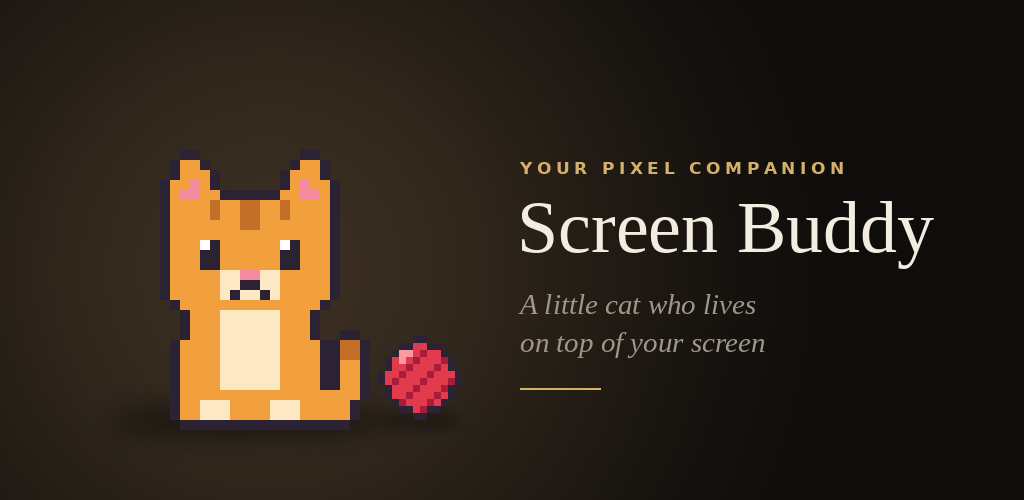
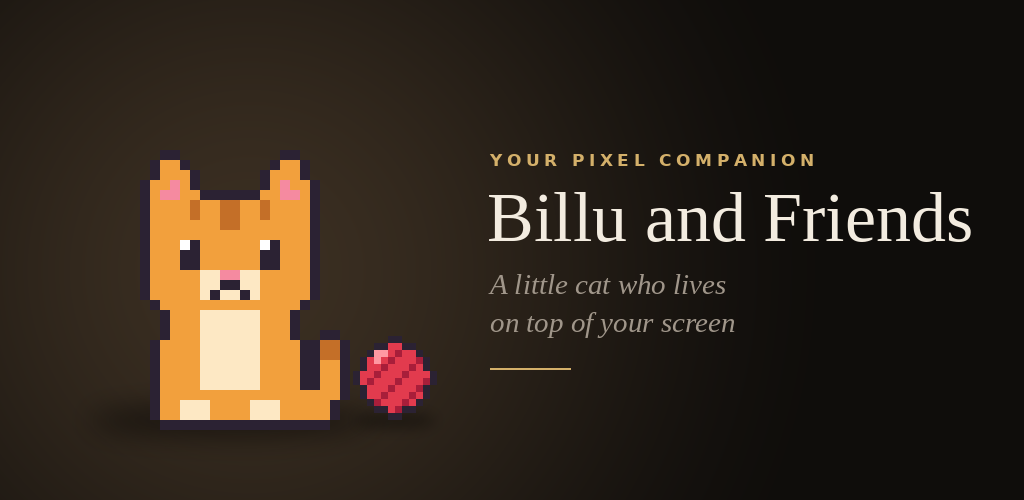
Rename the app to Billu and Friends and the cat to Billu
- App name, heading, permission text and footer now say Billu and Friends.
- The cat comes named Billu; names people chose themselves are kept.
- The privacy policy, landing page, launch guide and README use the new
  names, and the policy moves to
  https://prathamgiri.com/billu-and-friends/privacy-policy.html, which the
  app links to. The guide's hosting steps are now for Vercel.
- New feature graphic with the new name; CI artifacts are renamed to
  billu-and-friends-apk and billu-and-friends-play-bundle.

Claude-Session: https://claude.ai/code/session_01JSRN3mJLy9xvQfvaaQ3C8j

diff --git a/app/src/main/kotlin/dev/screenbuddy/MainActivity.kt b/app/src/main/kotlin/dev/screenbuddy/MainActivity.kt
@@ -52,7 +52,7 @@ class MainActivity : Activity() {
         )
 
         // --- heading ---
-        add(Lux.eyebrow(this, "Screen Buddy"), 8f)
+        add(Lux.eyebrow(this, getString(R.string.app_name)), 8f)
         add(heading(), 6f)
         add(Lux.text(this, "Your ginger tabby, at home on your screen", 15f, Lux.MUTED, Lux.LIGHT), 2f)
 
@@ -67,7 +67,7 @@ class MainActivity : Activity() {
             }
             addView(inviteButton, LinearLayout.LayoutParams(match, wrap))
             addView(Lux.text(this@MainActivity,
-                "Allow Screen Buddy to display over other apps, then come back here.",
+                "Allow Billu and Friends to display over other apps, then come back here.",
                 13f, Lux.MUTED, Lux.LIGHT,
             ).apply { gravity = Gravity.CENTER }, LinearLayout.LayoutParams(match, wrap).apply { topMargin = dp(10f) })
         }
@@ -100,7 +100,7 @@ class MainActivity : Activity() {
         add(gestures(), 14f)
 
         add(Lux.text(this,
-            "Screen Buddy has no internet access and never reads what is on your screen.",
+            "Billu and Friends has no internet access and never reads what is on your screen.",
             12f, Lux.FAINT, Lux.LIGHT,
         ).apply { gravity = Gravity.CENTER }, 36f)
         add(Lux.text(this, "Privacy policy", 13f, Lux.GOLD, Lux.MEDIUM).apply {
@@ -425,6 +425,6 @@ class MainActivity : Activity() {
     }
 
     private companion object {
-        const val PRIVACY_POLICY_URL = "https://prathamgiri.com/screen-buddy/privacy-policy.html"
+        const val PRIVACY_POLICY_URL = "https://prathamgiri.com/billu-and-friends/privacy-policy.html"
     }
 }

diff --git a/docs/privacy-policy.html b/docs/privacy-policy.html
@@ -3,8 +3,8 @@
 <head>
 <meta charset="utf-8">
 <meta name="viewport" content="width=device-width, initial-scale=1">
-<title>Screen Buddy Privacy Policy</title>
-<meta name="description" content="How Screen Buddy handles your information: it collects none.">
+<title>Billu and Friends Privacy Policy</title>
+<meta name="description" content="How Billu and Friends handles your information: it collects none.">
 <style>
   :root {
     --bg: #faf7f2; --text: #1d1915; --muted: #6b6259; --accent: #8a6a2c; --rule: #e6ded2;
@@ -32,18 +32,18 @@
 </head>
 <body>
 <main>
-  <div class="eyebrow">Screen Buddy</div>
+  <div class="eyebrow">Billu and Friends</div>
   <h1>Privacy Policy</h1>
   <p class="meta">Effective 15 November 2026</p>
 
   <div class="summary">
-    <p><strong>In short:</strong> Screen Buddy collects no personal information. It has no
+    <p><strong>In short:</strong> Billu and Friends collects no personal information. It has no
     internet access, no accounts, no ads and no analytics. Nothing you do in the app or on your
     phone is sent anywhere.</p>
   </div>
 
   <h2>About this policy</h2>
-  <p>This policy explains how the Screen Buddy app for Android ("the app") handles information.
+  <p>This policy explains how the Billu and Friends app for Android ("the app") handles information.
   The app is published on Google Play by the developer named on its Google Play listing
   ("we").</p>
 

diff --git a/docs/index.html b/docs/index.html
@@ -3,7 +3,7 @@
 <head>
 <meta charset="utf-8">
 <meta name="viewport" content="width=device-width, initial-scale=1">
-<title>Screen Buddy</title>
+<title>Billu and Friends</title>
 <meta name="description" content="A pixel companion that lives on top of your Android screen.">
 <style>
   :root { --bg: #faf7f2; --text: #1d1915; --muted: #6b6259; --accent: #8a6a2c; }
@@ -22,7 +22,7 @@
 <body>
 <main>
   <div class="eyebrow">Android app</div>
-  <h1>Screen Buddy</h1>
+  <h1>Billu and Friends</h1>
   <p>A pixel cat who lives on top of your screen. She strolls along the bottom edge, grooms,
   naps, hops onto your keyboard and chases a ball of wool now and then. Pet her, carry her and
   toss her around.</p>

diff --git a/app/src/main/kotlin/dev/screenbuddy/KeyboardWatcher.kt b/app/src/main/kotlin/dev/screenbuddy/KeyboardWatcher.kt
@@ -44,7 +44,7 @@ class KeyboardWatcher(context: Context, private val onChange: () -> Unit) {
         if (Build.VERSION.SDK_INT >= 30) {
             lp.fitInsetsTypes = lp.fitInsetsTypes or WindowInsets.Type.ime()
         }
-        lp.title = "Screen Buddy keyboard watcher"
+        lp.title = "Billu and Friends keyboard watcher"
         view.addOnLayoutChangeListener { _, _, _, _, _, _, _, _, _ -> measure() }
         view.setOnApplyWindowInsetsListener { _, insets ->
             view.post { measure() }

diff --git a/core/src/main/kotlin/dev/screenbuddy/core/Species.kt b/core/src/main/kotlin/dev/screenbuddy/core/Species.kt
@@ -6,7 +6,7 @@ package dev.screenbuddy.core
  * and, where it behaves differently, its own brain.
  */
 enum class Species(val id: String, val label: String, val defaultName: String, val available: Boolean) {
-    CAT("cat", "Cat", "Billu Rani", true),
+    CAT("cat", "Cat", "Billu", true),
     DOG("dog", "Dog", "Biscuit", false),
     BUNNY("bunny", "Bunny", "Clover", false);
 

diff --git a/app/src/main/kotlin/dev/screenbuddy/CatHost.kt b/app/src/main/kotlin/dev/screenbuddy/CatHost.kt
@@ -134,7 +134,7 @@ class CatHost(
         } else {
             WindowManager.LayoutParams.LAYOUT_IN_DISPLAY_CUTOUT_MODE_SHORT_EDGES
         }
-        lp.title = "Screen Buddy"
+        lp.title = "Billu and Friends"
         return lp
     }
 

diff --git a/docs/play-store/LAUNCH.md b/docs/play-store/LAUNCH.md
@@ -1,4 +1,4 @@
-# Launching Screen Buddy on Google Play
+# Launching Billu and Friends on Google Play
 
 Everything needed to get from here to a production release, in order. Answers for each Play
 Console form are written out so they can be pasted in. Policies change, so if a form asks
@@ -18,22 +18,16 @@ something not covered here, check the linked Google help page rather than guessi
 
 ## 1. Put the privacy policy online at prathamgiri.com
 
-The app links to **<https://prathamgiri.com/screen-buddy/privacy-policy.html>**, so the policy
+The app links to **<https://prathamgiri.com/billu-and-friends/privacy-policy.html>**, so the policy
 must be served at exactly that address. That link is built into the app; keep it working for as
 long as any version of the app is installed, and don't move it without shipping an update.
 
-**If prathamgiri.com is a GitHub Pages user site** (a repo named `prathamGiri.github.io` with a
-custom domain), this happens on its own: GitHub serves every project site under your domain.
-1. Merge this branch into `main`.
-2. In this repo: **Settings → Pages → Deploy from a branch → `main`, folder `/docs` → Save**.
-3. `docs/` then appears at `https://prathamgiri.com/screen-buddy/`.
+The portfolio is on Vercel: copy `docs/privacy-policy.html` to
+`public/billu-and-friends/privacy-policy.html` in the portfolio project and deploy. Optionally
+copy `docs/index.html` to `public/billu-and-friends/index.html` too, for a small app page. When
+the policy changes here, copy it across again.
 
-**If the portfolio is hosted anywhere else** (Vercel, Netlify, a web host…), copy
-`docs/privacy-policy.html` into your portfolio so it is served at `/screen-buddy/privacy-policy.html`
-(for example `public/screen-buddy/privacy-policy.html` in most site generators). Optionally copy
-`docs/index.html` to `/screen-buddy/index.html` too, for a small app page.
-
-Either way, open the link on your phone and check it loads without a login, before submitting.
+Open the link on your phone and check it loads without a login, before submitting.
 
 ## 2. Create the upload key and give it to CI
 
@@ -57,18 +51,18 @@ Then on GitHub, **Settings → Secrets and variables → Actions → New reposit
 | `UPLOAD_KEY_PASSWORD` | the key password you chose (often the same) |
 
 Keep `upload.jks` and the passwords somewhere safe (a password manager), never in the repo.
-From the next push, each Actions run has a second artifact, **`screen-buddy-play-bundle`**,
+From the next push, each Actions run has a second artifact, **`billu-and-friends-play-bundle`**,
 containing `app-release.aab`. That is the file you upload to Play.
 
 ## 3. Create the app in Play Console
 
-**Home → Create app**: name `Screen Buddy`, default language, **App**, **Free**, accept the
+**Home → Create app**: name `Billu and Friends`, default language, **App**, **Free**, accept the
 declarations.
 
 ## 4. App content (Policy → App content)
 
 **Privacy policy**
-`https://prathamgiri.com/screen-buddy/privacy-policy.html`
+`https://prathamgiri.com/billu-and-friends/privacy-policy.html`
 
 **App access**
 "All functionality is available without any special access." (No login. The app asks for
@@ -103,7 +97,7 @@ Not applicable: answer No or "My app doesn't provide any…" to each.
 **Foreground service permissions** (asked because the app targets Android 14+)
 Type: **Special use**. Paste:
 
-> Screen Buddy shows a small animated pet that stays on top of other apps until the user hides
+> Billu and Friends shows a small animated pet that stays on top of other apps until the user hides
 > it. The foreground service keeps the pet's overlay window and its animation running while the
 > user uses other apps; without it, Android stops the pet within minutes and it disappears. The
 > service starts only when the user opens the app and chooses to show the pet. It shows an
@@ -113,7 +107,7 @@ Type: **Special use**. Paste:
 Impact if the task were deferred or interrupted: "The pet disappears from the screen, which is
 the whole purpose of the app."
 
-Video: record 20–30 seconds on the phone (screen recorder): open Screen Buddy, switch
+Video: record 20–30 seconds on the phone (screen recorder): open Billu and Friends, switch
 "On your screen" on, go to the home screen and another app with the cat visible, pull down the
 notification, then switch the cat off. Upload to YouTube as **Unlisted** and paste the link.
 
@@ -124,7 +118,7 @@ and its ball, and never cover or read other apps' content."
 
 ## 5. Store listing (Grow → Store presence → Main store listing)
 
-**App name** (max 30): `Screen Buddy`
+**App name** (max 30): `Billu and Friends`
 
 **Short description** (max 80):
 `A pixel cat who lives on your screen. She naps, grooms and chases wool.`
@@ -132,7 +126,7 @@ and its ball, and never cover or read other apps' content."
 **Full description:**
 
 ```
-Meet Billu Rani, a little pixel cat who lives on top of your screen.
+Meet Billu, a little pixel cat who lives on top of your screen.
 
 She strolls along the bottom of your phone while you use it, sits and watches, and now and then
 licks her paw or scratches behind her ear. Leave her alone for a while and she yawns, curls up
@@ -150,10 +144,10 @@ Make her yours
 • Hide her with one switch whenever you want a clear screen
 
 Private by design
-Screen Buddy has no internet access, no ads, no accounts and no tracking. It never reads what
+Billu and Friends has no internet access, no ads, no accounts and no tracking. It never reads what
 is on your screen or what you type.
 
-Screen Buddy needs permission to display over other apps, so she can live on top of them. It
+Billu and Friends needs permission to display over other apps, so she can live on top of them. It
 shows a quiet notification while she is on your screen, as Android requires.
 
 Dogs and bunnies are on their way.
@@ -172,7 +166,7 @@ the cat on the keyboard; the cat asleep; the cat with the ball. Avoid showing ot
 personal content or notifications in them.
 
 **Category:** Entertainment (or Personalization). **Contact email:** required and shown
-publicly. **Website:** `https://prathamgiri.com/screen-buddy/` (or just `https://prathamgiri.com`).
+publicly. **Website:** `https://prathamgiri.com/billu-and-friends/` (or just `https://prathamgiri.com`).
 A contact address on your own domain (for example `hello@prathamgiri.com`) looks more
 trustworthy than a personal Gmail, if your domain provider offers email forwarding.
 
@@ -184,7 +178,7 @@ production.
 1. **Test and release → Testing → Closed testing → Create track** (or use "Alpha").
 2. Testers: add an email list or a Google Group with 12+ people (aim for 15–20, since some
    drop out).
-3. Upload `app-release.aab` from the `screen-buddy-play-bundle` artifact, add release notes,
+3. Upload `app-release.aab` from the `billu-and-friends-play-bundle` artifact, add release notes,
    roll out.
 4. Send testers the opt-in link. Each must accept it with the same Google account they use on
    the phone and install from Play.
@@ -205,7 +199,7 @@ production.
 
 1. Raise `versionName` in `app/build.gradle.kts` (for example `1.1`). The version code goes up
    by itself.
-2. Push, wait for the Actions run, download `screen-buddy-play-bundle`.
+2. Push, wait for the Actions run, download `billu-and-friends-play-bundle`.
 3. Upload to the track, add release notes, roll out.
 
 ## Things to keep in mind
@@ -213,7 +207,7 @@ production.
 - **Phone makers' battery savers** (Xiaomi, Samsung, Oppo, Vivo, Huawei and others) can stop
   background apps. If testers say the cat vanishes, that is the usual cause; an in-app tip to
   allow the app to run in the background would help.
-- **Name clashes:** search Play for "Screen Buddy" before launch. If a well-known app already
+- **Name clashes:** search Play for "Billu and Friends" before launch. If a well-known app already
   uses the name, a small change avoids confusion and trademark complaints.
 - **The debug key in the repository** (`app/debug.keystore`) is for test APKs only. Never use it
   for Play; the release bundle is signed with your upload key.

diff --git a/README.md b/README.md
@@ -1,6 +1,6 @@
-# Screen Buddy
+# Billu and Friends
 
-A pixel companion that lives on top of your Android screen. Today that is Billu Rani, a ginger
+A pixel companion that lives on top of your Android screen. Today that is Billu, a ginger
 tabby; dogs and bunnies are planned.
 
 She wanders along the bottom edge, now and then grooms herself or scratches behind her ear,
@@ -14,10 +14,10 @@ Every behaviour can be switched off in the app, and you can give her any name yo
 ## Install
 
 Open `app-debug.apk` on the phone (it is built by every run under the repository's **Actions**
-tab, as `screen-buddy-apk`), open Screen Buddy, tap **Invite Billu Rani onto your screen**, and
+tab, as `billu-and-friends-apk`), open Billu and Friends, tap **Invite Billu onto your screen**, and
 allow it to display over other apps.
 
-Screen Buddy uses only the "Display over other apps" permission and a quiet notification that
+Billu and Friends uses only the "Display over other apps" permission and a quiet notification that
 keeps it running. It has no internet permission and never reads what is on your screen; it
 only learns that the screen was touched, not where.
 
@@ -25,7 +25,7 @@ only learns that the screen was touched, not where.
 
 `docs/play-store/LAUNCH.md` walks through the launch: privacy policy hosting, the upload key,
 every Play Console form with answers, the store listing and the closed test. The privacy policy
-is `docs/privacy-policy.html`, served at https://prathamgiri.com/screen-buddy/privacy-policy.html.
+is `docs/privacy-policy.html`, served at https://prathamgiri.com/billu-and-friends/privacy-policy.html.
 
 ## Build
 
